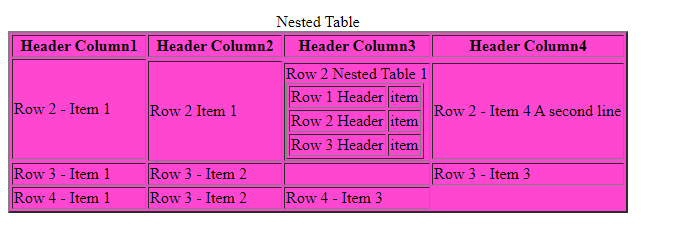
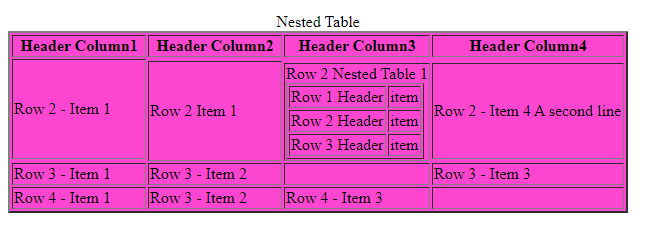
homework02-Strike2

Changed region(s): [[0.0, 0.0581, 0.9375, 0.9004], [0.0, 0.4066, 0.1875, 0.4938], [0.2188, 0.4066, 0.375, 0.4938]]

diff --git a/students/Emilija/homeworks/homework-02/index.html b/students/Emilija/homeworks/homework-02/index.html
@@ -45,7 +45,8 @@
                         </table>
                     </section>
  <br />
- <br />           
+ <br />  
+ <br />         
                     <section>
                         <table border="5" style="color: rgb(0, 0, 0);">
                             <caption>Test 1</caption>
@@ -98,38 +99,40 @@
                 <section>
                     <table border="1" style="width: 250px; color: rgb(236, 39, 147);" >
                         <caption>Basic-table</caption>
+                        <thead>
                         <tr>
-                            <td colspan="3">section_1</td>
+                            <th colspan="3">section_1</th>
                         </tr>
-                    
-                
-                        <tr>
-                            <td rowspan="2">
-                            section_2
-                            </td>
-                            <td colspan="2">section_3</td>
-                        </tr>
+                        </thead>
+
+                        <tbody>
+                            <tr>
+                                <td rowspan="2">
+                                section_2
+                                </td>
+                                <td colspan="2">section_3</td>
+                            </tr>
 
 
-                        <tr>
-                            <td>section_4</td>
-                            <td>section_5</td>
-                        </tr>
+                            <tr>
+                                <td>section_4</td>
+                                <td>section_5</td>
+                            </tr>
 
-                    
-                        <tr>
-                            <td rowspan="2">
-                            section_6
-                            </td>
-                            <td colspan="2">section_7</td>
-                        </tr>
+                        
+                            <tr>
+                                <td rowspan="2">
+                                section_6
+                                </td>
+                                <td colspan="2">section_7</td>
+                            </tr>
 
 
-                        <tr>
-                            <td>section_8</td>
-                            <td>section_9</td>
-                        </tr>
-
+                            <tr>
+                                <td>section_8</td>
+                                <td>section_9</td>
+                            </tr>
+                        </tbody>
                     </table>
                 </section>
  <br />
@@ -275,57 +278,58 @@
                         <table border="2" style="color: rgb(0, 0, 0); background-color: rgb(255, 70, 209);">
                             <caption style="color: black;">Nested Table</caption>
 
-                        <thead>
-                                <tr>
-                                    <th>Header Column1</th>
-                                    <th>Header Column2</th>
-                                    <th>Header Column3</th>
-                                    <th>Header Column4</th>
-                                </tr>
-                        </thead>
-                                <tbody>
+                            <thead>
                                     <tr>
-                                        <td rowspan="3" style="width: 130px;">Row 2 - Item 1</td>
+                                        <th>Header Column1</th>
+                                        <th>Header Column2</th>
+                                        <th>Header Column3</th>
+                                        <th>Header Column4</th>
                                     </tr>
-
-                                    <tr> 
-                                        <td rowspan="3" style="width: 130px;">Row 2 Item 1</td>
-                                    </tr>
-                                    
-                                    <tr>     
-                                        <td rowspan="2">Row 2 Nested Table 1
-                                                <table border="1">
-                                                    <tr>
-                                                        <td>Row 1 Header</td>
-                                                        <td>item</td>
-                                                    </tr>
-                                                    <tr>
-                                                        <td>Row 2 Header</td>
-                                                        <td>item</td>
-                                                    </tr> 
-                                                    <tr>
-                                                        <td>Row 3 Header</td>
-                                                        <td>item</td>
-                                                    </tr>
-                                                </table> 
-                                            <td>Row 2 - Item 4 A second line</td>
-                                        </td>
-                                    </tr>  
-
-                                    <tr>
+                            </thead>
+                            <tbody>
                                         <tr>
-                                            <td> Row 3 - Item 1</td>
-                                            <td> Row 3 - Item 2</td>  
-                                            <td></td>
-                                            <td>Row 3 - Item 3</td>
+                                            <td rowspan="3" style="width: 130px;">Row 2 - Item 1</td>
                                         </tr>
+
+                                        <tr> 
+                                            <td rowspan="3" style="width: 130px;">Row 2 Item 1</td>
+                                        </tr>
+                                        
+                                        <tr>     
+                                            <td rowspan="2">Row 2 Nested Table 1
+                                                    <table border="1">
+                                                        <tr>
+                                                            <td>Row 1 Header</td>
+                                                            <td>item</td>
+                                                        </tr>
+                                                        <tr>
+                                                            <td>Row 2 Header</td>
+                                                            <td>item</td>
+                                                        </tr> 
+                                                        <tr>
+                                                            <td>Row 3 Header</td>
+                                                            <td>item</td>
+                                                        </tr>
+                                                    </table> 
+                                                <td>Row 2 - Item 4 A second line</td>
+                                            </td>
+                                        </tr>  
+
                                         <tr>
-                                            <td>Row 4 - Item 1</td>
-                                            <td>Row 3 - Item 2</td>
-                                            <td>Row 4 - Item 3</td>
+                                            <tr>
+                                                <td> Row 3 - Item 1</td>
+                                                <td> Row 3 - Item 2</td>  
+                                                <td></td>
+                                                <td>Row 3 - Item 3</td>
+                                            </tr>
+                                            <tr>
+                                                <td>Row 4 - Item 1</td>
+                                                <td>Row 3 - Item 2</td>
+                                                <td>Row 4 - Item 3</td>
+                                                <td></td>
+                                            </tr>
                                         </tr>
-                                    </tr>
-                                </tbody>
+                            </tbody>
                         </table>
                 </section>
  <br />
@@ -336,20 +340,20 @@
                             <caption style="color: rgb(219, 50, 120);">
                                 Seminar
                             </caption>
-                        <thead>
-                            <tr>
-                                <th rowspan="3">Day</th>
-                                <th colspan="3">Seminar</th>
-                            </tr>
-                            <tr>
-                                <th colspan="2">Schedule</th>
-                                <th rowspan="2">Topic</th>
-                            </tr>
-                            <tr>
-                                <th>Begin</th>
-                                <th>End</th>
-                            </tr>
-                        </thead> 
+                            <thead>
+                                <tr>
+                                    <th rowspan="3">Day</th>
+                                    <th colspan="3">Seminar</th>
+                                </tr>
+                                <tr>
+                                    <th colspan="2">Schedule</th>
+                                    <th rowspan="2">Topic</th>
+                                </tr>
+                                <tr>
+                                    <th>Begin</th>
+                                    <th>End</th>
+                                </tr>
+                            </thead> 
             
                             <tbody>
                                 <tr>
@@ -408,33 +412,33 @@
                                     </tr>
                                 </thead>
 
-                            <tbody>
-                                <tr>
-                                    <td rowspan="4">Student List</td>
-                                    <td>1</td>
-                                    <td>Victor</td>
-                                    <td>Computer Science</td>
-                                    <td>12345</td>
-                                </tr>
-                                <tr>
-                                    <td>2</td>
-                                    <td>Williams</td>
-                                    <td>Electronics</td>
-                                    <td>23456</td>
-                                </tr>
-                                <tr>
-                                    <td>3</td>
-                                    <td>Harry</td>
-                                    <td>Electrical</td>
-                                    <td>34567</td>
-                                </tr>
-                                <tr>
-                                    <td>4</td>
-                                    <td>Rick</td>
-                                    <td>Civil</td>
-                                    <td>45678</td>
-                                </tr>
-                            </tbody>
+                                <tbody>
+                                    <tr>
+                                        <td rowspan="4">Student List</td>
+                                        <td>1</td>
+                                        <td>Victor</td>
+                                        <td>Computer Science</td>
+                                        <td>12345</td>
+                                    </tr>
+                                    <tr>
+                                        <td>2</td>
+                                        <td>Williams</td>
+                                        <td>Electronics</td>
+                                        <td>23456</td>
+                                    </tr>
+                                    <tr>
+                                        <td>3</td>
+                                        <td>Harry</td>
+                                        <td>Electrical</td>
+                                        <td>34567</td>
+                                    </tr>
+                                    <tr>
+                                        <td>4</td>
+                                        <td>Rick</td>
+                                        <td>Civil</td>
+                                        <td>45678</td>
+                                    </tr>
+                                </tbody>
                         </table>
                     </section>
                 </main>
